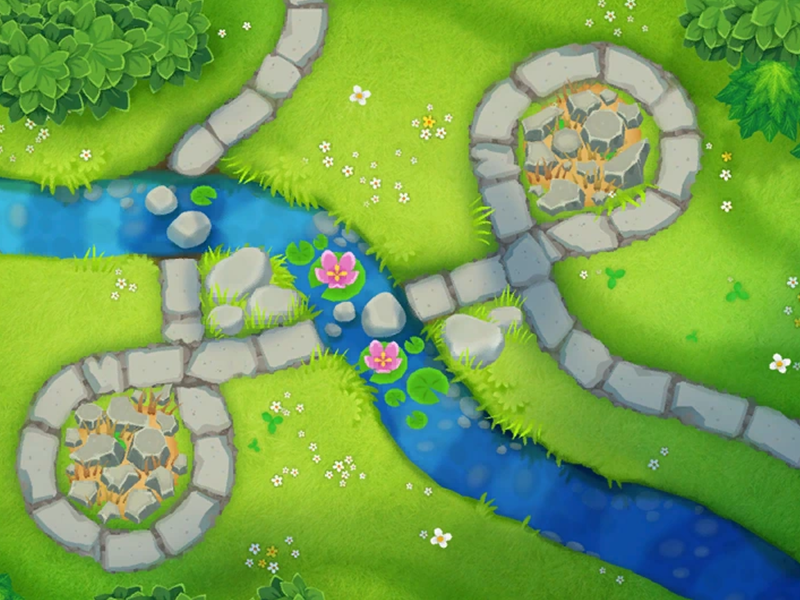
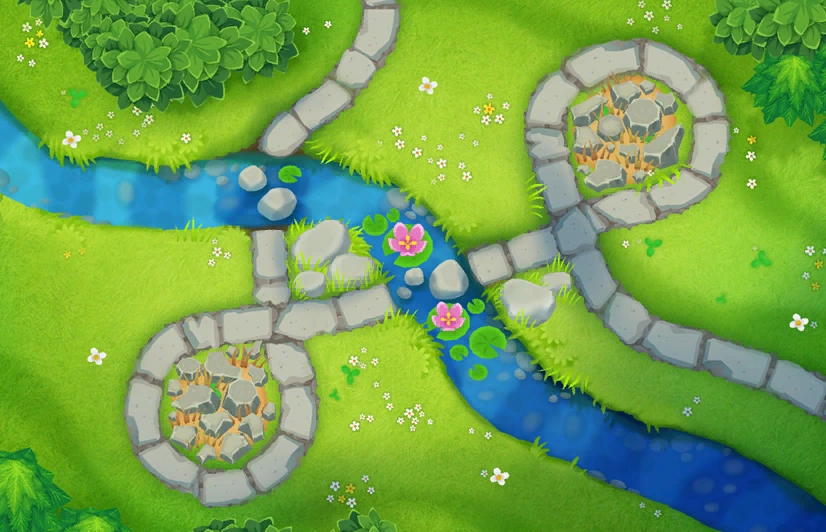
monkey spawn colision check

diff --git a/packages/game_instances/map_instance.py b/packages/game_instances/map_instance.py
@@ -3,6 +3,8 @@ import os
 import pygame
 from packages.objects.bloom_factory import BloomFactory
 from packages.objects.bullet.bullet import Bullet
+from packages.objects.monkey.monkey import Monkey
+from packages.objects.monkey.monkey_placeholder import MonkeyPlaceholder
 import packages.utilities.functions.parser_functions as parser
 from packages.enumerations.map_mode import MapMode
 
@@ -37,19 +39,51 @@ class MapInstance:
                 
             case MapMode.CHIMPS:                
                 self.life = 1
+                
+                
+        map_proportion = 3/2 
         
-          
-        reference_surface = pygame.Surface((
-            game_object.display_surface.get_height() * (3/2), 
-            game_object.display_surface.get_height()  
-        ))
+        display_width = game_object.display_surface.get_width()
+        display_height = game_object.display_surface.get_height()
+        display_scale_resolution = display_width / display_height
+        
+        self.render_16x9 = display_scale_resolution >= (16 / 9)
+        self.map_x_axis = 0 # X distance from border to render the map
+        
+        
+        if self.render_16x9:
+            map_by_hud_proportion = 52/60
+            map_width = display_width * map_by_hud_proportion
+            
+            reference_surface = pygame.Surface((
+                map_width, 
+                map_width / map_proportion
+            ))
+        else:
+            map_by_hud_proportion = 21/24
+            map_height = display_height * map_by_hud_proportion
+            
+            reference_surface = pygame.Surface((
+                map_height * map_proportion, 
+                map_height  
+            ))
+            
+            #Centralize map x axis ___________________________________________________________
+            display_width_midpoint = round(self.game_object.display_surface.get_width() / 2)
+            rect = reference_surface .get_rect()
+            rect.centerx = display_width_midpoint
+            self.map_x_axis = rect.x
+            #_________________________________________________________________________________
         
         map_image = pygame.image.load(map_image_path).convert()
-        self.surface_map_image = pygame.transform.scale(map_image, reference_surface.get_size())
+        self.surface_map_image = pygame.transform.smoothscale(map_image, reference_surface.get_size())
         
-        
-        collision_map = pygame.image.load(colision_map_path).convert()
-        self.surface_colision_map = pygame.transform.scale(collision_map, reference_surface.get_size())
+        colision_map = pygame.image.load(colision_map_path).convert()
+        self.surface_colision_map = game_object.display_surface.copy()
+        self.surface_colision_map.blit(
+            pygame.transform.smoothscale(colision_map, reference_surface.get_size()), 
+            (self.map_x_axis, 0)
+        )
         
         self.surface_bloom = reference_surface.copy()
         self.surface_bloom.set_colorkey(game_object.GLOBAL_COLOR_KEY_VALUE)
@@ -66,11 +100,13 @@ class MapInstance:
         #Wave disposition
         self.bloom_track = parser.get_wave_list_from_file(bloom_track_path)
     
+    
     def run(self):
         bloom_factory = BloomFactory(self.bloom_track, self.map_track)
         
-        #Bullet Test_________________________________________________________________________
+        #Sprite Groups_________________________________________________________________________
         bullet_group = pygame.sprite.Group()
+        monkey_placeholder_group = pygame.sprite.Group()
         #____________________________________________________________________________________
         
         
@@ -80,20 +116,16 @@ class MapInstance:
             for event in pygame.event.get():
                 if event.type == pygame.QUIT:
                     self.game_object.set_game_is_running(False)
-                if event.type == pygame.MOUSEBUTTONUP and event.button == 1:
-                    mouse_x, mouse_y = event.pos
-                    
-                    # angle = randint(0, 359)
-                    angle = 180
-                    
-                    bullet = Bullet(mouse_x, mouse_y, radians(angle), 1000, 10)
-                    bullet_group.add(bullet)
+                if event.type == pygame.MOUSEBUTTONDOWN and event.button == 1:
+                    monkey_placeholder = MonkeyPlaceholder('jorge', self.surface_colision_map)
+                    monkey_placeholder_group.add(monkey_placeholder)
                     
             
             #Render Frame_______________________________________________________________________
             self.game_object.display_surface.fill((0, 0, 0))
             self.surface_bloom.fill(self.surface_bloom.get_colorkey())
             self.surface_bullet.fill(self.surface_bullet.get_colorkey())
+            self.surface_monkey.fill(self.surface_monkey.get_colorkey())
             
             bloom_factory.run_map(
                 self.surface_bloom,
@@ -103,9 +135,13 @@ class MapInstance:
             bullet_group.update(bloom_factory.created_blooms, delta_time)
             bullet_group.draw(self.surface_bullet)
             
-            self.game_object.display_surface.blit(self.surface_map_image, (0,0))
-            self.game_object.display_surface.blit(self.surface_bloom.convert_alpha(), (0,0))
-            self.game_object.display_surface.blit(self.surface_bullet.convert_alpha(), (0,0))
+            monkey_placeholder_group.update(self.surface_monkey)
+            
+            self.game_object.display_surface.blit(self.surface_map_image, (self.map_x_axis,0))
+            # self.game_object.display_surface.blit(self.surface_colision_map, (self.map_x_axis,0))
+            self.game_object.display_surface.blit(self.surface_bloom.convert_alpha(), (self.map_x_axis,0))
+            self.game_object.display_surface.blit(self.surface_bullet.convert_alpha(), (self.map_x_axis,0))
+            self.game_object.display_surface.blit(self.surface_monkey.convert(), (self.map_x_axis,0))
             #___________________________________________________________________________________
                     
             self.game_object.loop_setdown()

diff --git a/packages/objects/monkey/monkey_placeholder.py b/packages/objects/monkey/monkey_placeholder.py
@@ -1,0 +1,48 @@
+import pygame
+from packages.objects.monkey.monkey import Monkey
+
+class MonkeyPlaceholder(pygame.sprite.Sprite):
+    def __init__(self, monkey: str,  colision_surface: pygame.Surface, place_color=pygame.Color(0, 255, 0)) -> None:
+        super().__init__()
+        
+        self.monkey = monkey
+        self.place_color = place_color
+        
+        self.colision_surface = colision_surface
+        
+        self.rect = pygame.Rect(0, 0, 32, 32)
+        self.surface = pygame.Surface((32, 32))
+        self.surface.fill((255, 255, 255))
+        self.surface.set_alpha(200)
+        
+        pygame.mouse.set_visible(False)
+        
+    def draw(self, surface: pygame.Surface, is_coliding: bool) -> None:
+        fill_color = (255, 0, 0) if is_coliding else (255, 255, 255)
+        self.surface.fill(fill_color)
+        
+        surface.blit(self.surface, (self.rect.x,self.rect.y))
+
+        
+    def update(self, surface: pygame.Surface) -> None:
+        mouse_x, mouse_y = pygame.mouse.get_pos()
+        self.rect.center = [mouse_x, mouse_y]
+        
+        colision_subsurface = self.colision_surface.subsurface(self.rect)
+        
+        #Treshold need to be this value to work to return a valid count bit value (1024)_____________________________
+        colision_mask = pygame.mask.from_threshold(colision_subsurface, self.place_color, (10, 10, 10, 255))
+        #________________________________________________________________________________________________________________
+        
+        mouse_buttons = pygame.mouse.get_pressed()
+        if not (mouse_buttons[0]):
+            pygame.mouse.set_visible(True)
+            self.kill()
+            return
+            
+        is_coliding = colision_mask.count() != 1024
+                    
+        self.draw(surface, is_coliding)
+        
+    def spawn_monkey(self):
+        pass

diff --git a/packages/game_instances/game.py b/packages/game_instances/game.py
@@ -106,7 +106,7 @@ class Game:
                             self, 
                             MapMode.EASY,
                             os.path.join(self.current_path, 'data', 'config', 'map_config', 'map1.txt'),
-                            os.path.join(self.current_path, 'data', 'imgs', 'color_picker_tester.png'),
+                            os.path.join(self.current_path, 'data', 'imgs', 'map_test_colision.png'),
                             os.path.join(self.current_path, 'data', 'imgs', 'map_test.png')
                         )
                         

diff --git a/packages/objects/bullet/bullet.py b/packages/objects/bullet/bullet.py
@@ -16,7 +16,7 @@ class Bullet(pygame.sprite.Sprite):
         
         
         #Automatcally Created Attributes
-        sprite_sheet = SpriteSheet(path_join(getcwd(), "data", 'imgs', 'bloom-spritesheet2.png'))
+        sprite_sheet = SpriteSheet(path_join(getcwd(), "data", 'imgs', 'bloom-spritesheet.png'))
         
         self.image = pygame.Surface.convert_alpha(sprite_sheet.get_image(0, 32, 32, 32))
         self.image = rotate_image_by_center(self.image, shoot_angle)

diff --git a/packages/objects/monkey/monkey.py b/packages/objects/monkey/monkey.py
@@ -2,4 +2,4 @@ import pygame
 
 class Monkey(pygame.sprite.Sprite):
     def __init__(self, x, y) -> None:
-        self.rect = pygame.Rect()
+        self.place_color = (0, 255, 0)
